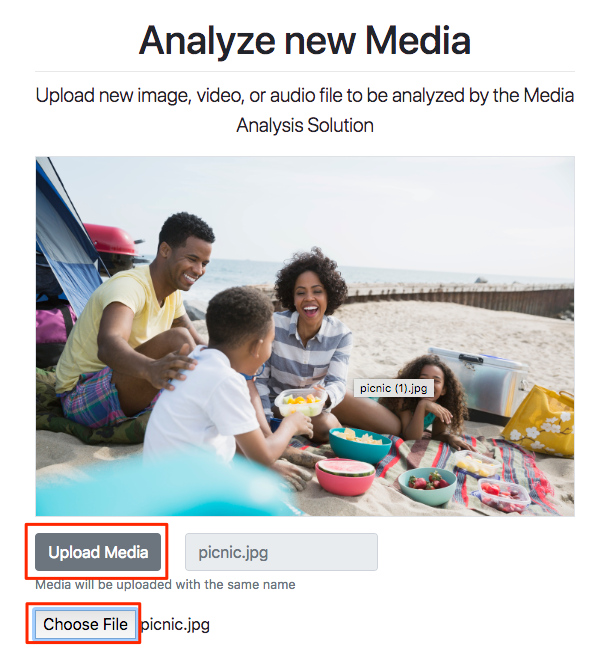
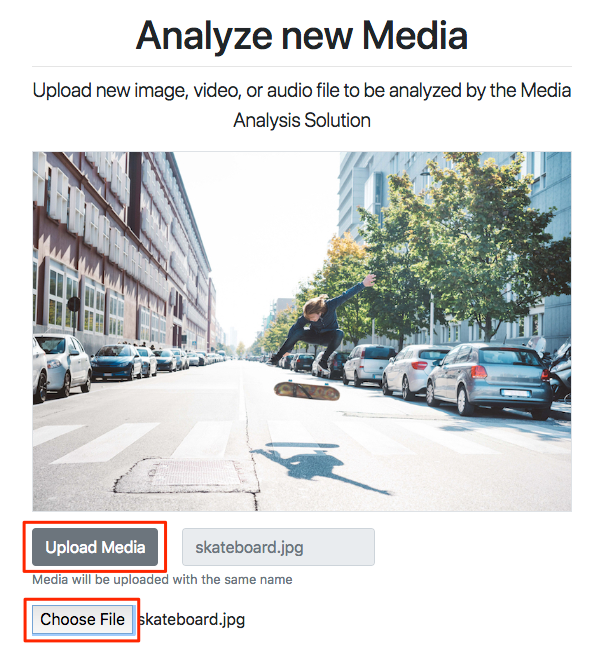
MAS

diff --git a/1-MediaAnalysisSolution/README.md b/1-MediaAnalysisSolution/README.md
@@ -56,7 +56,7 @@ After the CloudFormation template is complete, you should receive a welcome emai
 
 ![Email](assets/mas-email.png)
 
-1. Click on the link in the email, and use Username and Password in the email to sign in to the application.
+1. Click on the link in the email, and use Username (***Notice: your username is not the same as the email address you provided***) and Password in the email to sign in to the application.
 
 2. After you sign in, MAS will prompt you to choose a new password. Enter a new password to continue to MAS landing page.
 
@@ -66,7 +66,7 @@ After the CloudFormation template is complete, you should receive a welcome emai
 
 ## Analyze Images using Media Analysis Solution
 
-1. Download and save [sample image](sample-images/picnic.jpg) on your desktop.
+1. Download and save [sample image](sample-images/skateboard.jpg) on your desktop.
 
 2. In Media Analysis Solution, click on the **Upload** link from the top menu.
 
@@ -159,21 +159,32 @@ After the CloudFormation template is complete, you should receive a welcome emai
              "End": true
              }
 ```
+
 10. Media Analysis Solution has different modules to process incoming content including images, videos and audio files. In next module you will learn how to extend Media Analysis Solution and make changes to different components.
 
 ![](assets/mas-src.png)
 
 11. [image.js](https://github.com/awslabs/media-analysis-solution/blob/master/source/analysis/lib/image/image.js) shows node code that Media Analysis Solution use to process images.
 
-12. Media Analysis Solution stores extracted metadata for each media file in a JSON file in S3 bucket along with the media file. To view metadata JSON file, go to S3 and search media.
+12. In Media Analysis Solution website, click Browse and click on View Results for image (drive.jpg) you just uploaded.
+
+![](assets/mas-browse-image.png)
+
+13. Review identified labels and facial attributes.
+
+![](assets/mas-facial-attributes.png)
+
+## Review extracted raw metadata stored on S3
+
+1. Media Analysis Solution indexes extracted metadata in Elasticsearch but also stores raw JSON in S3 bucket along with the media file. To view metadata JSON file, go to S3 and search media.
 
 ![](assets/mas-s3-content.png)
 
-13. Click on the S3 bucket that starts with media-analysis and go to private -> folder with guid in it -> media. You will see folders with guid as their names for each object uploaded to MAS.
+2. Click on the S3 bucket that starts with media-analysis and go to private -> folder with guid in it -> media. You will see folders with guid as their names for each object uploaded to MAS.
 
 ![](assets/mas-s3-objects.png)
 
-14. Click on a folder and go inside nested folder results. You will see JSON files containing metadata returned by different Rekognition API  calls.
+3. Click on a folder and go inside nested folder results. You will see JSON files containing metadata returned by different Rekognition API  calls.
 
 ![](assets/mas-s3-objectresults.png)
 
@@ -188,7 +199,7 @@ In addition to analyzing media, MAS enables you to upload faces to an Amazon Rek
 
 ![](assets/mas-add-to-collection.png)
 
-3. Next, name the image “mattwood” and choose Upload Face.
+3. Next, name the image “mattwood” ( *** UI currently does not allows spaces in the name *** ) and choose Upload Face.
 
 ![](assets/mas-add-to-collection-name.png)
 
